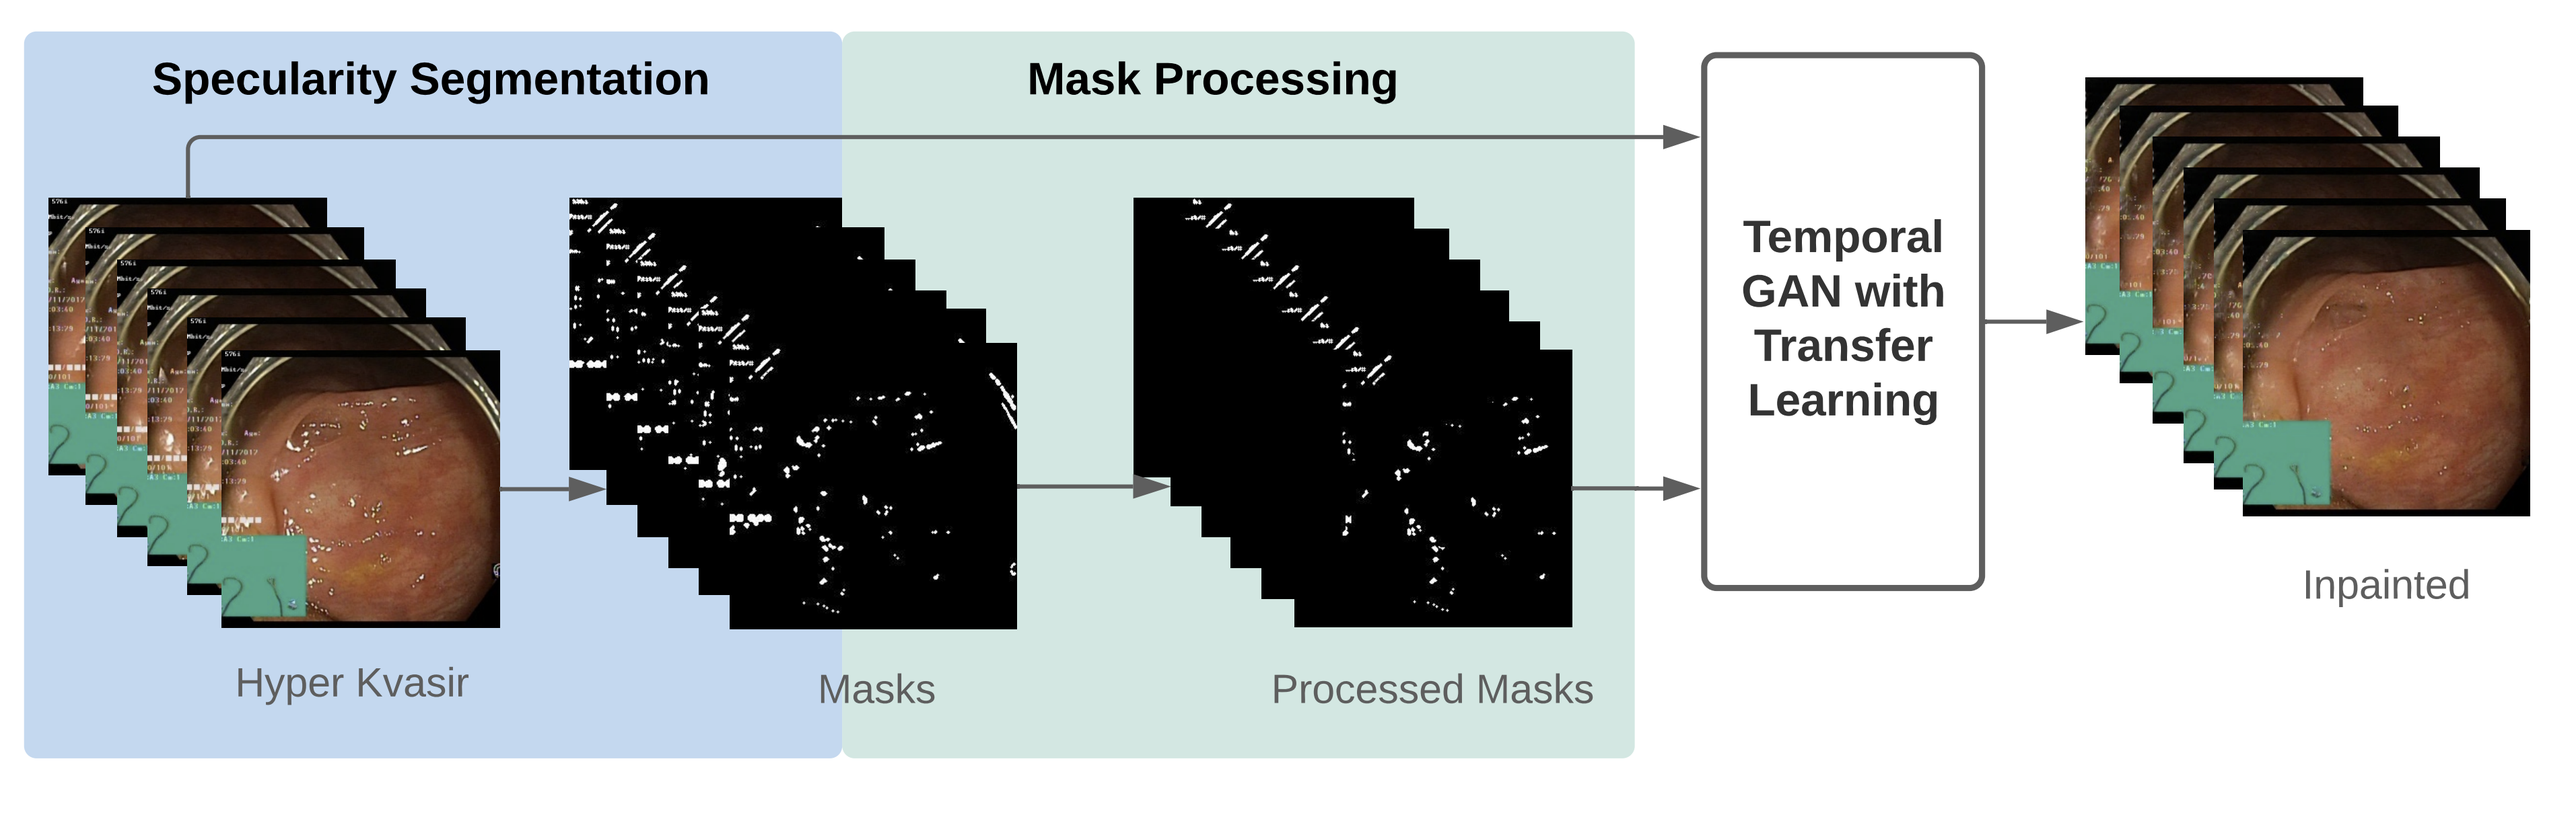
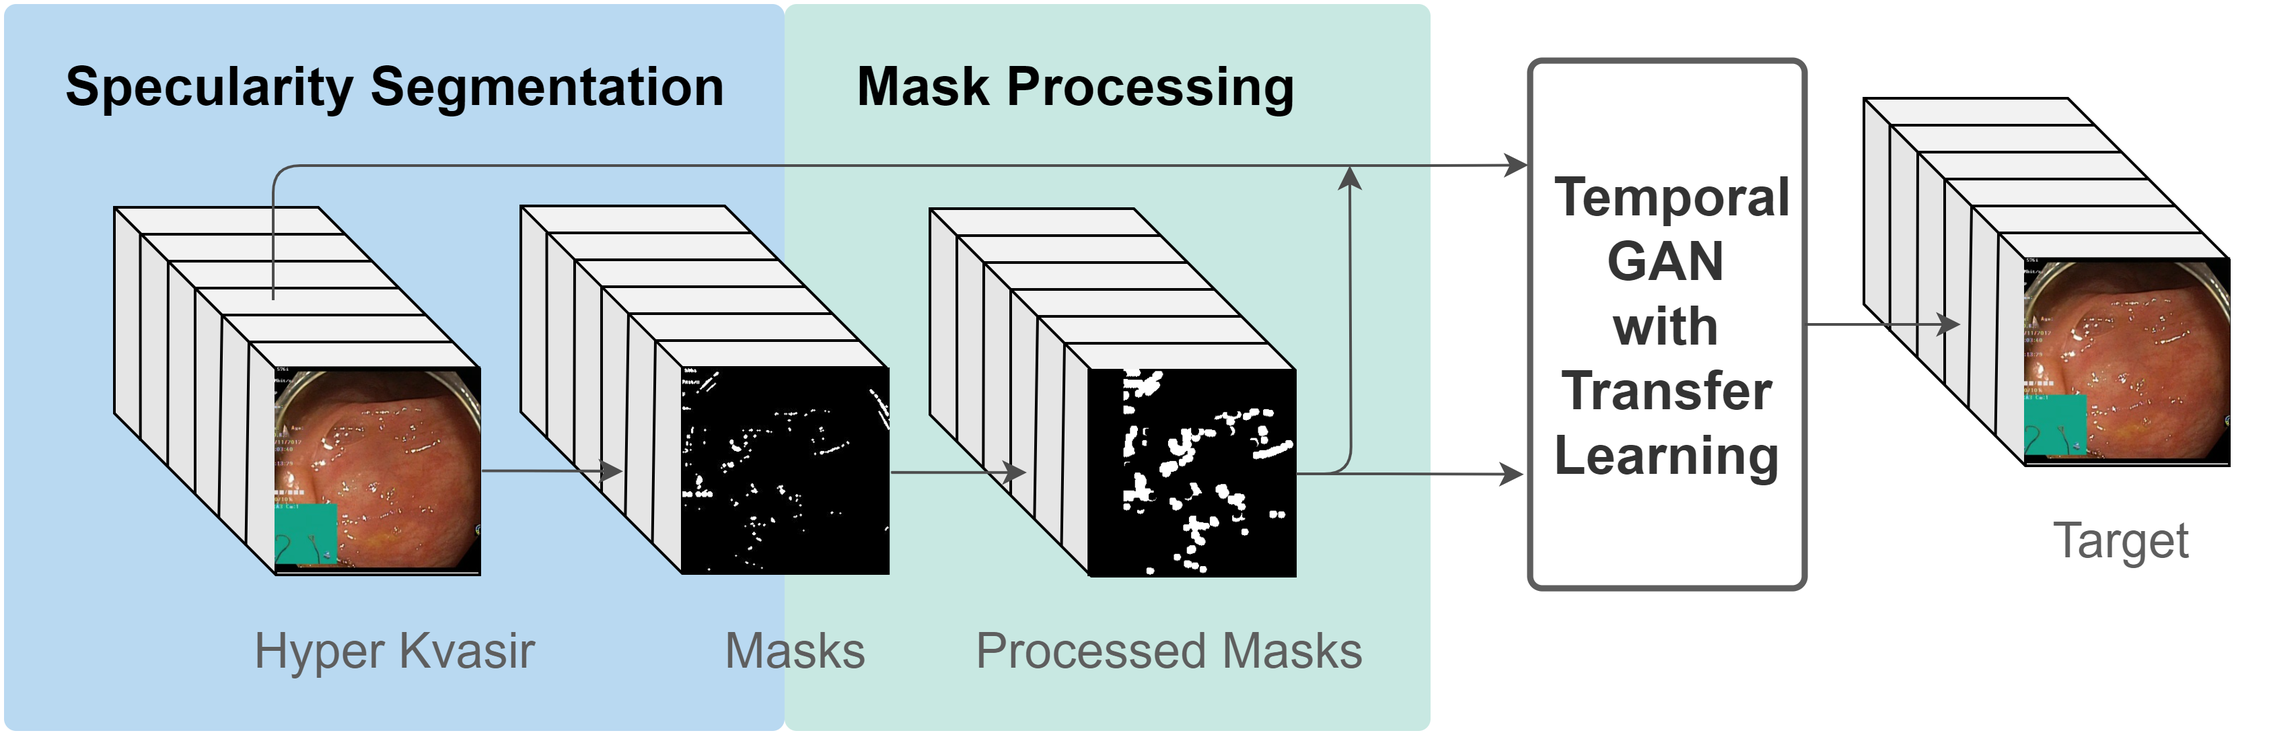
updated readme images and removed redundant lines

diff --git a/core/dataset.py b/core/dataset.py
@@ -4,7 +4,6 @@ import json
 import random
 import torch
 import numpy as np
-import torchvision.transforms.functional as F
 import torchvision.transforms as transforms
 from PIL import Image
 from core.utils import ZipReader
@@ -13,7 +12,6 @@ from core.utils import Stack, ToTorchFormatTensor
 
 class Dataset(torch.utils.data.Dataset):
     def __init__(self, args: dict, split='train', debug=False):
-        self.args = args
         self.Dil=args['Dil']
         self.args = args
         self.split = split

diff --git a/README.md b/README.md
@@ -1,5 +1,5 @@
 # Endo-STTN for Endoscopic Video Inpainting
-![teaser](./docs/motivation.png?raw=true)
+![teaser](./docs/Motivation2023.png?raw=true)
 
 ### [Paper](https://arxiv.org/abs/2203.17013) | [BibTex](#citation)
 
